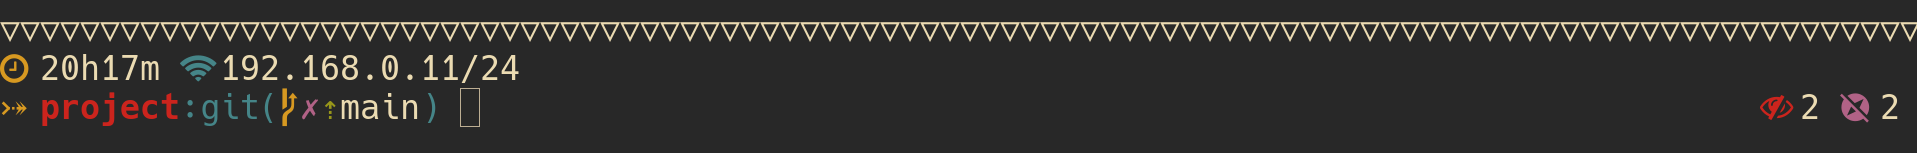
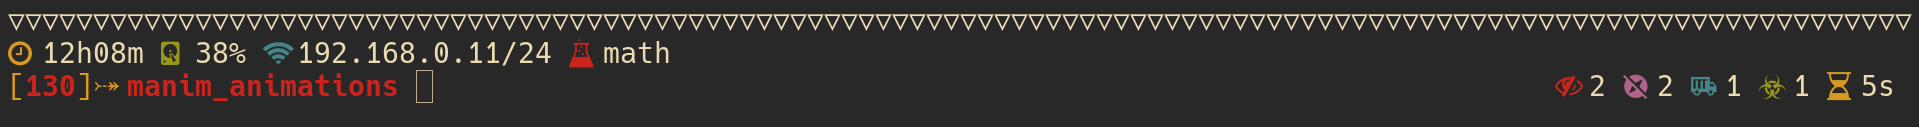
feat: add disk usage module and update screenshots.

Changed region(s): [[0.0, 0.0945, 1.0, 0.2598], [0.0, 0.3307, 0.3693, 0.8268], [0.8002, 0.5669, 1.0, 0.8031]]

diff --git a/README.md b/README.md
@@ -6,13 +6,17 @@
 "River Dreams" is prompt for ZSH that shows useful information about your
 current environment:
 
+### In the top prompt:
   + current hours and minutes.
+  + percentage of disk usage of the disk mounted at /.
   + local ip address.
   + sourced Python environment.
+### In the left prompt:
   + exit code on errors.
   + current directory.
-  + directory permissions.
-  + git branch and status.
+  + directory ownership status.
+  + git branch and its status.
+### In the right prompt:
   + quantity of active docker containers.
   + quantity of files being untracked by git.
   + quantity of hidden files.
@@ -22,12 +26,10 @@ current environment:
 
 ## Screenshots
 
-
+![](screenshots/preview_0.png)
 ![](screenshots/preview_1.png)
 ![](screenshots/preview_2.png)
 ![](screenshots/preview_3.png)
-![](screenshots/preview_4.png)
-![](screenshots/preview_5.png)
 
 
 ## Installation
@@ -68,7 +70,15 @@ current environment:
   ```
 
   The first command will change your shell and the second one will change the
-  root user one.
+  root user one. Be aware that for the prompt to work for root too, you need
+  to source that same file in its zshrc located at `/root/.zshrc`. Alternatively,
+  you can use a symbolic link to link your user's zshrc with the root one like this:
+
+  ```bash
+  sudo ln -sf ${HOME}/.zshrc /root
+  ```
+
+  `sudo` is required because it is a system's directory.
 
   Some terminal emulators, like Konsole and old versions of GNOME terminal, have
   a specific configuration in their menus to change the shell command they
